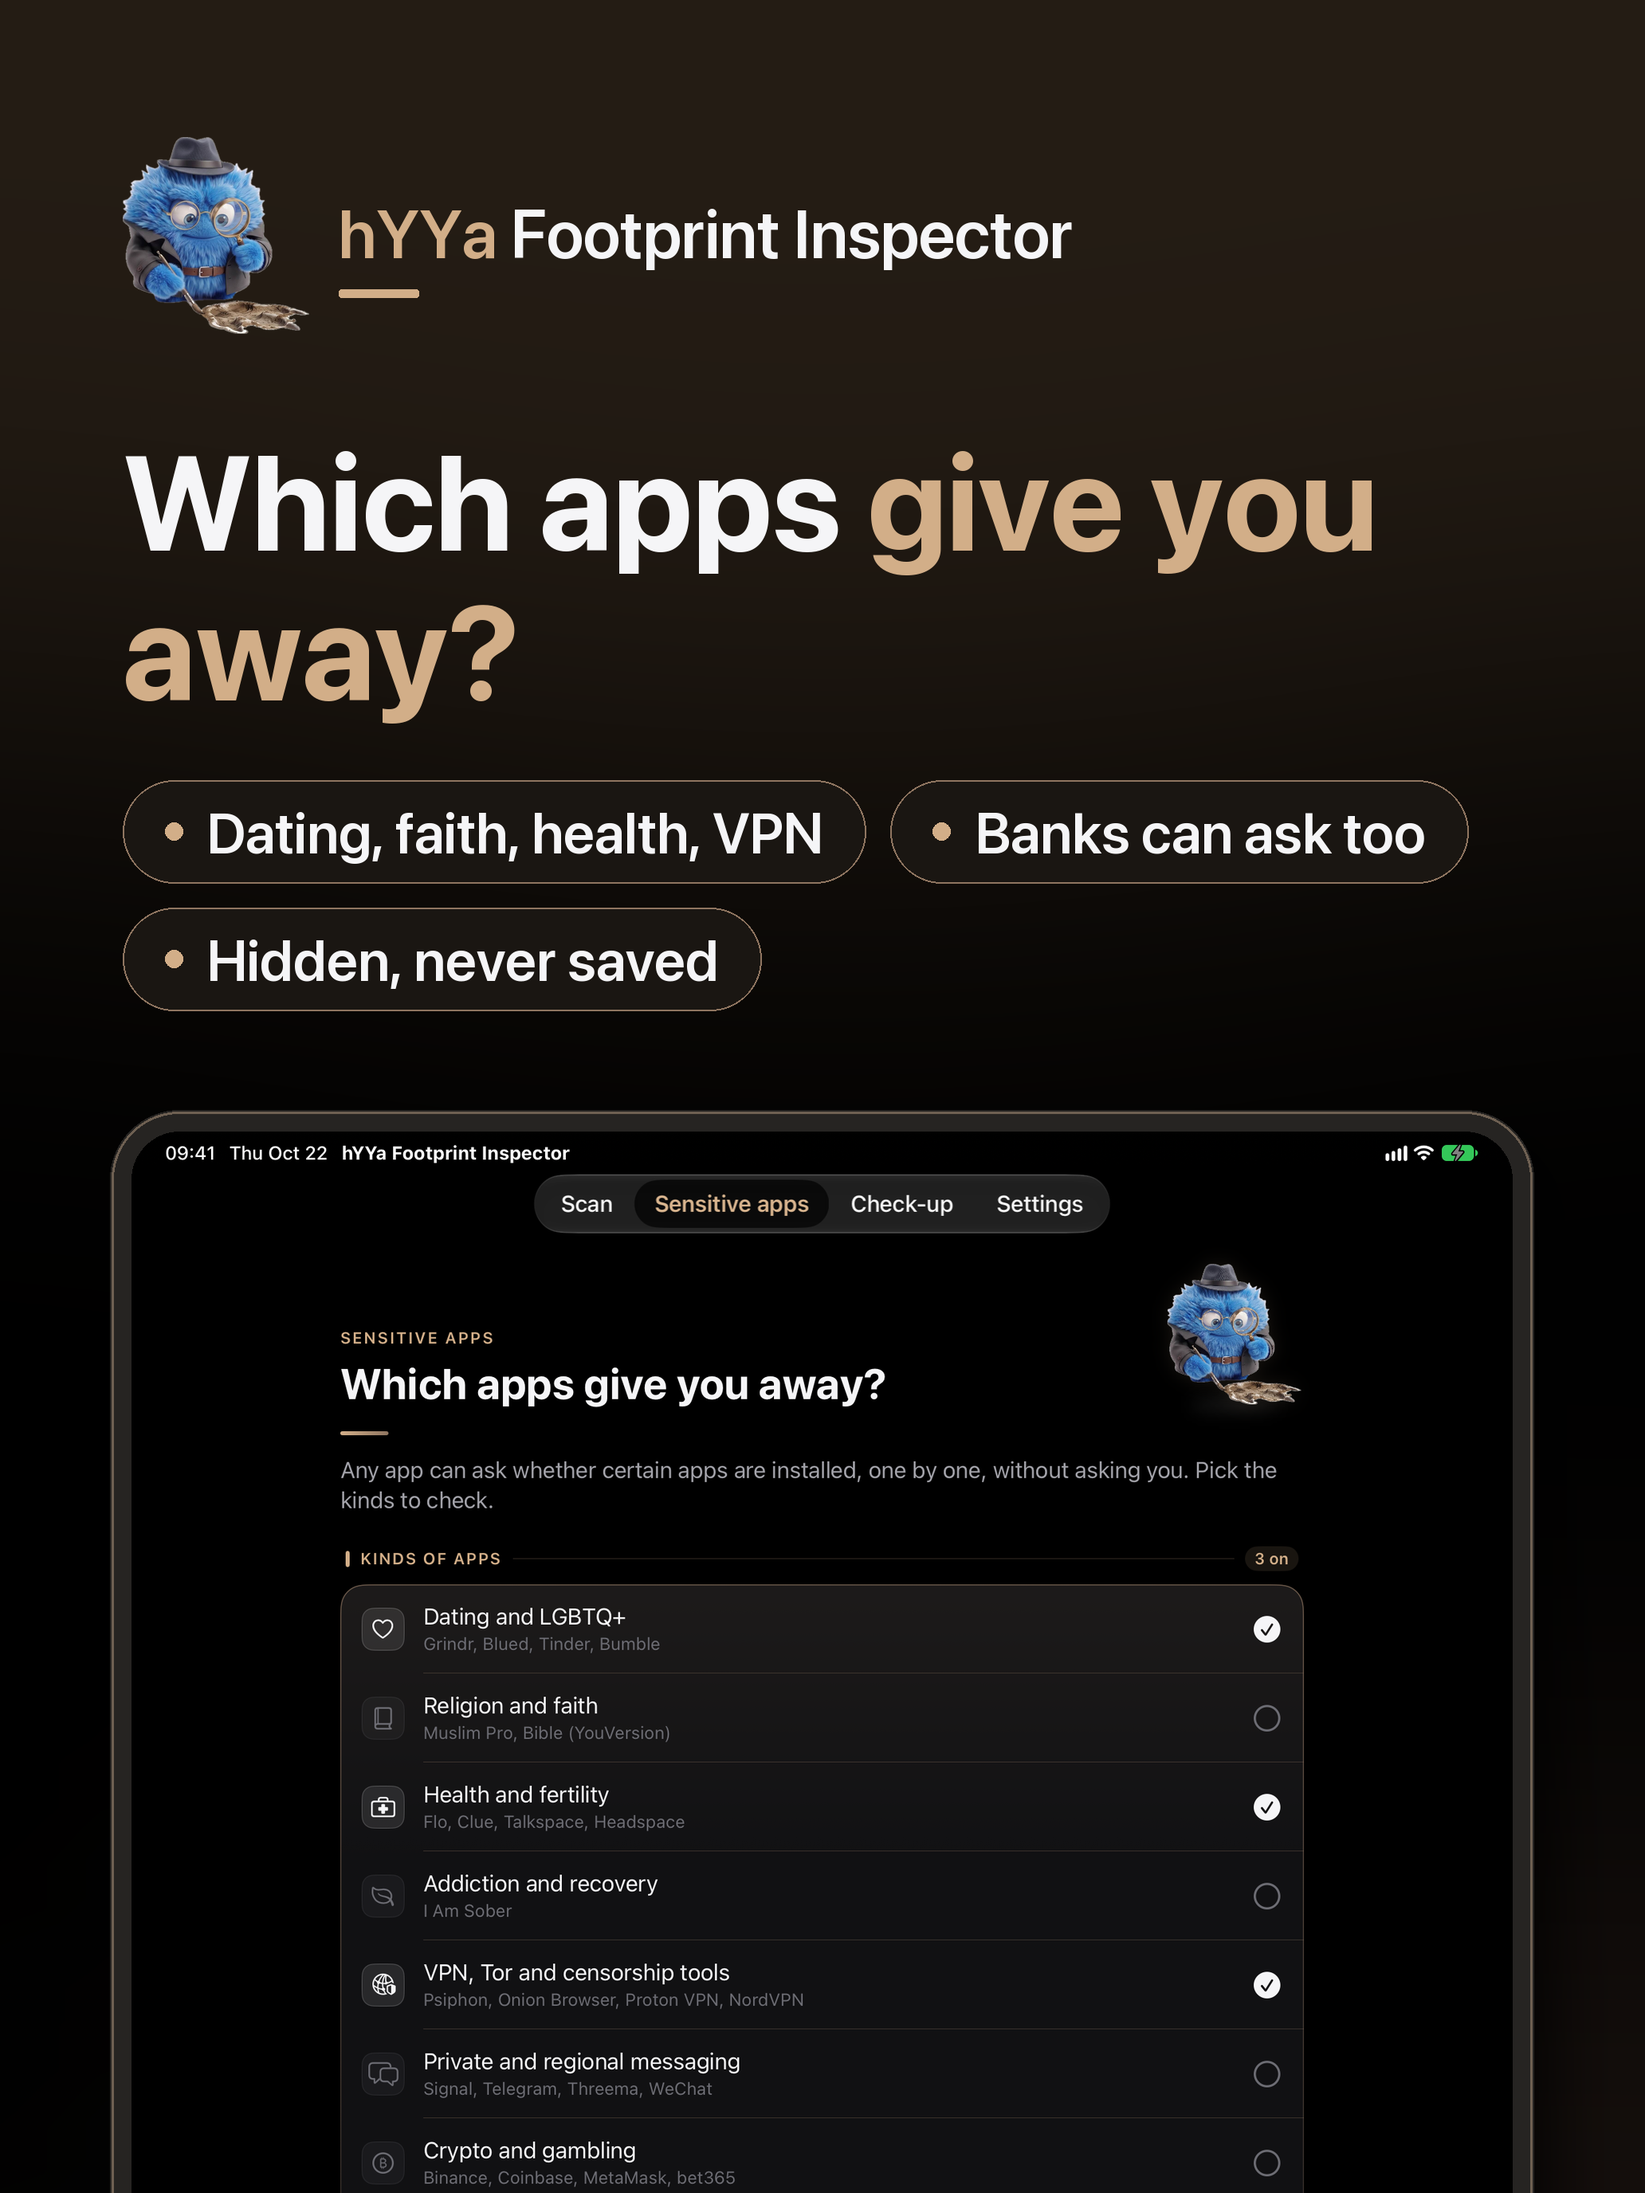
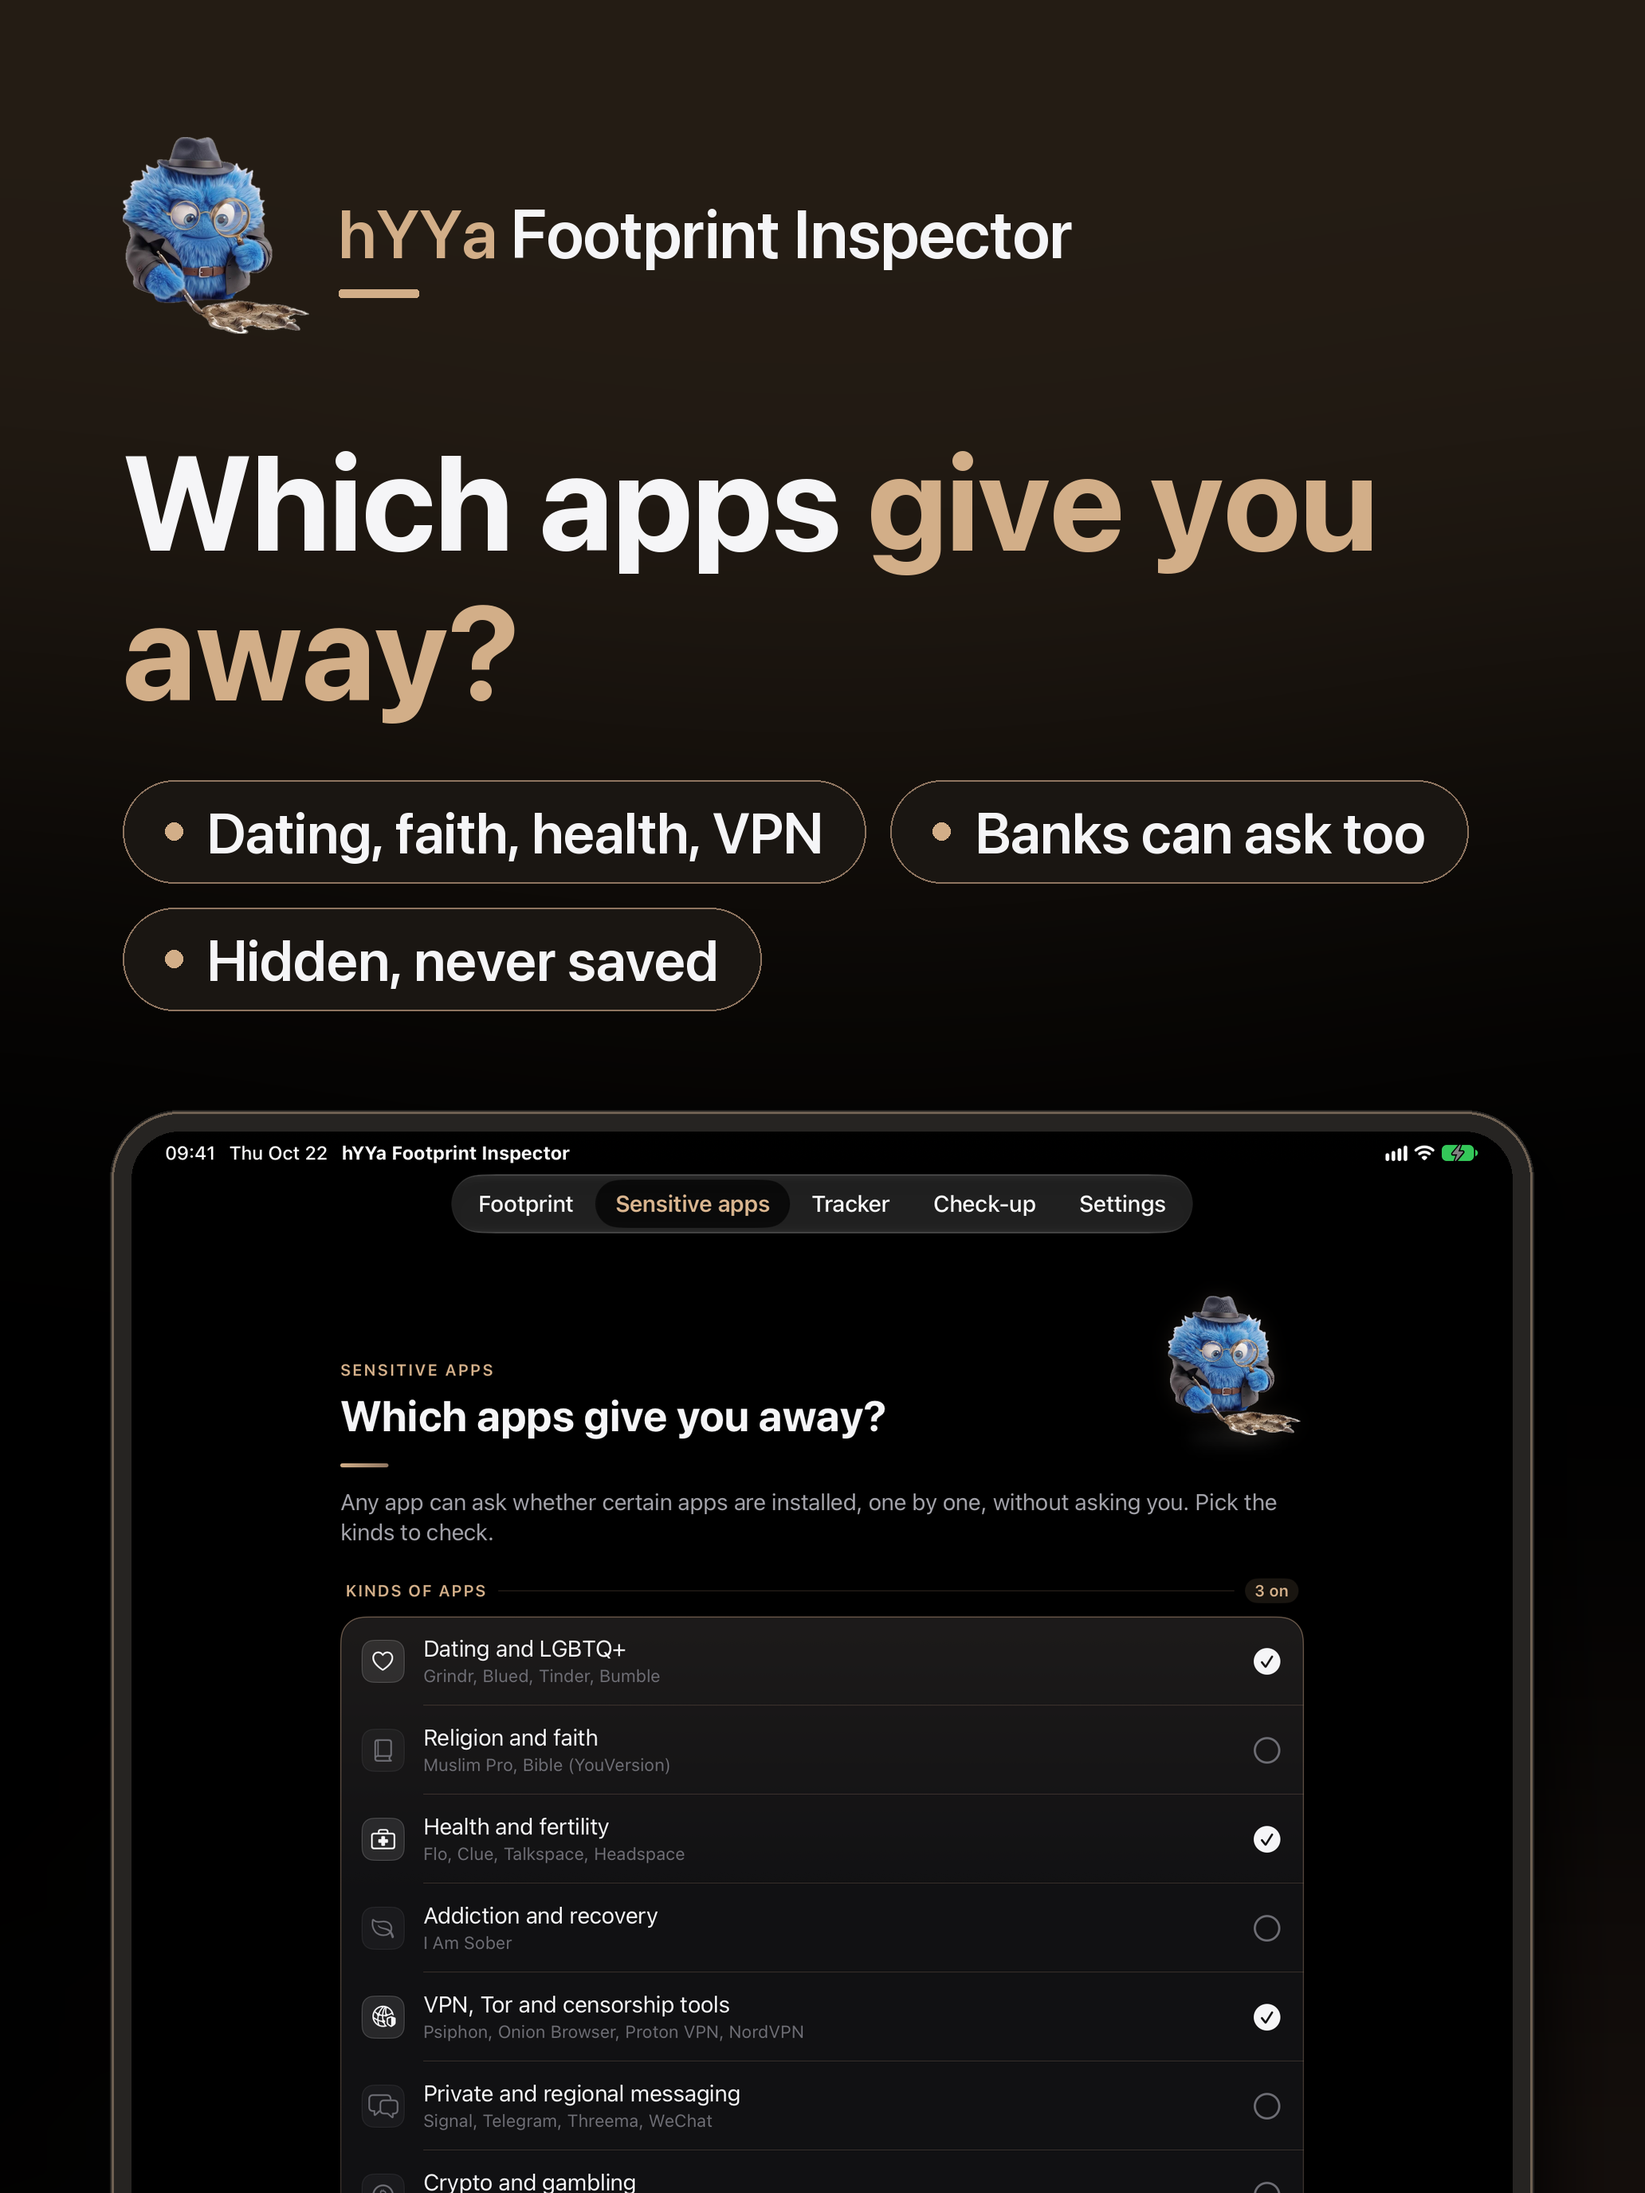
Store: plain-language copy for the new features (App Store and Google Play); new slides for iPhone, iPad, Mac and Android (Tracker, Fix it step by step, score); screenshot runs use sample data

Changed region(s): [[0.186, 0.5312, 0.8062, 1.0], [0.7442, 0.875, 0.7752, 0.9688], [0.7442, 0.8125, 0.7752, 0.8438]]

diff --git a/UITests/StoreScreenshotsUITests.swift b/UITests/StoreScreenshotsUITests.swift
@@ -18,6 +18,8 @@ final class StoreScreenshotsUITests: XCTestCase {
     override func setUp() {
         continueAfterFailure = true
         app = XCUIApplication()
+        // Made-up values only: never a real device's, and the Tracker shows its sample report.
+        app.launchArguments = ["-sampleData"]
     }
 
     private func shot(_ name: String) {
@@ -158,6 +160,24 @@ final class StoreScreenshotsUITests: XCTestCase {
         tab("Check-up")
         sleep(1)
         shot("store-06-checkup")
+
+        tab("Tracker")
+        sleep(2)
+        shot("store-08-tracker")
+
+        // The score explained, with "Fix them with me", then the first fix step.
+        tab("Footprint")
+        let fix = app.buttons["Fix them with me"]
+        scrollTo(fix, max: 6)
+        if fix.exists {
+            app.swipeUp(velocity: .slow)
+            sleep(1)
+            shot("store-10-score")
+            fix.tap()
+            sleep(2)
+            shot("store-09-fix")
+            app.buttons["Close"].firstMatch.tap()
+        }
 
         tab("Footprint")
         let board = app.buttons.containing(NSPredicate(format: "label CONTAINS 'Privacy scoreboard'")).firstMatch

diff --git a/Android/app/src/main/java/com/hyya/footprintinspector/ui/App.kt b/Android/app/src/main/java/com/hyya/footprintinspector/ui/App.kt
@@ -66,10 +66,10 @@ class Nav {
 }
 
 @Composable
-fun App(startTab: Tab = Tab.SCAN, autoScan: Boolean = false, openFinding: String? = null) {
+fun App(startTab: Tab = Tab.SCAN, autoScan: Boolean = false, openFinding: String? = null, openFix: Boolean = false) {
     val scanner: Scanner = viewModel()
     var tab by rememberSaveable { mutableStateOf(startTab) }
-    val nav = remember { Nav().also { n -> openFinding?.let { n.push(Route.FindingRoute(it)) } } }
+    val nav = remember { Nav().also { n -> openFinding?.let { n.push(Route.FindingRoute(it)) }; if (openFix) n.push(Route.FixRoute) } }
     if (autoScan && scanner.findings.isEmpty()) androidx.compose.runtime.LaunchedEffect(Unit) { scanner.scan() }
 
     BackHandler(enabled = nav.stack.isNotEmpty()) { nav.pop() }

diff --git a/Android/app/src/main/java/com/hyya/footprintinspector/MainActivity.kt b/Android/app/src/main/java/com/hyya/footprintinspector/MainActivity.kt
@@ -28,6 +28,6 @@ class MainActivity : ComponentActivity() {
         }
         // Shows the re-scan reminder now, to check it without waiting a week.
         if (intent.getBooleanExtra("testReminder", false)) com.hyya.footprintinspector.remind.ScanReminder.post(this)
-        setContent { FootprintTheme { App(startTab, autoScan, intent.getStringExtra("openFinding")) } }
+        setContent { FootprintTheme { App(startTab, autoScan, intent.getStringExtra("openFinding"), intent.getBooleanExtra("openFix", false)) } }
     }
 }

diff --git a/Android/app/src/main/java/com/hyya/footprintinspector/ui/ScanScreens.kt b/Android/app/src/main/java/com/hyya/footprintinspector/ui/ScanScreens.kt
@@ -384,7 +384,7 @@ private fun ScoreGuide(scanner: Scanner, nav: Nav) {
 @Composable
 fun FixScreen(scanner: Scanner, nav: Nav) {
     val context = LocalContext.current
-    val fixes = remember { fixesOf(scanner) }
+    val fixes = remember(scanner.findings.size) { fixesOf(scanner) }
     var index by remember { mutableStateOf(0) }
     var done by remember { mutableStateOf(0) }
     Page {

diff --git a/App/Sources/UI/ScanView.swift b/App/Sources/UI/ScanView.swift
@@ -165,6 +165,7 @@ private struct Results: View {
         .sheet(isPresented: $fixing) { FixWizard(fixes: fixes) { Task { await scanner.scan() } } }
 
         ScoreGuideCard(score: score, fixes: fixes, all: scanner.allFindings) { fixing = true }
+            .task { if CommandLine.arguments.contains("-openFix") && !fixes.isEmpty { fixing = true } }
 
 
         SectionDivider()

diff --git a/GooglePlayConsole/listing-en-US.md b/GooglePlayConsole/listing-en-US.md
@@ -9,44 +9,37 @@ appear naturally a few times.
 hYYa Footprint Inspector
 
 ## Short description (80)
-See which apps can reach your private info, then fix it. Free and open source.
+See what your apps know and did, then fix it in a few taps. Free and private.
 
 ## Full description (4000)
-Every app on your device can quietly read details that, together, can identify you. hYYa Footprint Inspector shows you exactly what they can see, and how to fix it.
+Your apps can learn more about you than you think. hYYa Footprint Inspector shows you what they can see, who can watch you, and how to fix it, in plain words.
 
-Run a privacy check in seconds: which apps can read your screen or notifications, the device details any app reads without asking, what each app permission really hands over, and which sensitive apps can be detected. Each finding comes with a calm explanation and a fix, often one tap to the right Settings page.
+FOUR SIMPLE STEPS
+1. Footprint: one tap checks what any app can read about your device and gives you a score out of 100. Higher is better.
+2. Sensitive apps: see which of your apps others can spot, like dating, faith, health or VPN apps, and what that could say about you.
+3. Tracker: see which apps can read your screen, read every notification, or lock your device. Apps holding more than one of these are flagged, because that's how monitoring apps work. Then open Android's own record of which apps used your location, camera and microphone.
+4. Check-up: go through your settings one area at a time and take back access you don't want to give.
 
-Why it matters: details like your device's name, when it last restarted, how many times it has started, your free space to the byte, your earbuds' name, your keyboards and languages look harmless one by one. Combined, they work as a device fingerprint that can recognise you across apps and build a digital footprint of who you are.
+FIX IT WITH ME
+Tap "Fix them with me" and the app walks you through each fix, one at a time, opening the exact setting for you. Then scan again and watch your score go up.
 
-WHAT YOU GET
-• A calm footprint score out of 100 that counts only what you can change.
-• Every clue explained: what an app learns, why the system allows it, and how long it lasts.
-• A fix for each one: one tap to the right Settings page, a few simple steps, or an honest "only Google or the device maker can fix this".
-• Before and after: scan again and see what changed.
-• An optional weekly or monthly reminder to scan again, scheduled on this device.
-
-SEE WHICH APPS CAN WATCH YOU
-Find every app that can read your screen, read every notification, or lock and erase your device, by name where Android allows. Apps holding more than one of these are flagged, because that's how monitoring apps work. One tap opens the right Settings page to take the access back.
+CLEAR, CALM AND HONEST
+• A colour chart on every page: red is worth a look, amber is worth knowing, green is fine.
+• Every finding explained: what it reveals, how serious it is and how long it lasts.
+• Apps built into your device aren't flagged, and parental-control or work apps are named for what they are.
+• An honest "only Google or the device maker can fix this" when there's nothing you can do.
+• A weekly or monthly reminder to check again, if you'd like one.
 
 RECOGNISED EVEN AFTER YOU DELETE AN APP
 Android gives each company's apps a code that stays the same when you delete and reinstall them. See yours, and why only a factory reset changes it.
 
-WHAT APPS SEE ONCE YOU SAY YES
-Tap a permission to see exactly what an app gets from it: Location, Nearby devices, Contacts and Calendars. The app asks only when you tap, and shows counts and summaries, never your contacts' names or event titles.
-
-WHICH APPS GIVE YOU AWAY
-Any app can check whether specific apps are installed. Choose the kinds of apps to check (dating, faith, health, VPN, messaging, crypto and more) and see what any app could find, with practical advice. Results are hidden until you tap, cleared when you leave, and never saved. Banking, government and employer apps can run the same check; if you'd rather they couldn't, use their website instead.
-
-A GUIDED PERMISSION CHECK-UP
-Android never tells one app which other apps can reach your location, contacts or notifications. Only Settings knows. The check-up walks you through it, including notification access, usage access, accessibility services, device admin apps, keyboards and your advertising ID, with a button to the right page.
-
 PRIVATE BY DESIGN
-• No internet permission: the app cannot connect anywhere, so nothing leaves your device.
-• No account, no ads, no analytics, no trackers.
-• Free. No in-app purchases, no subscription.
-• Open source under the Mozilla Public License 2.0.
+• No internet permission: the app can't connect anywhere, so nothing leaves your device.
+• No account, no ads, no tracking.
+• Free. No purchases, no subscription.
+• Open source, so anyone can check how it works.
 
-Meet the detective: he lives on every page and has a tip if you tap him.
+Meet the detective: he's on every page and has a tip if you tap him.
 
 hYYa Footprint Inspector is part of the hYYa family of privacy-first apps.
 
